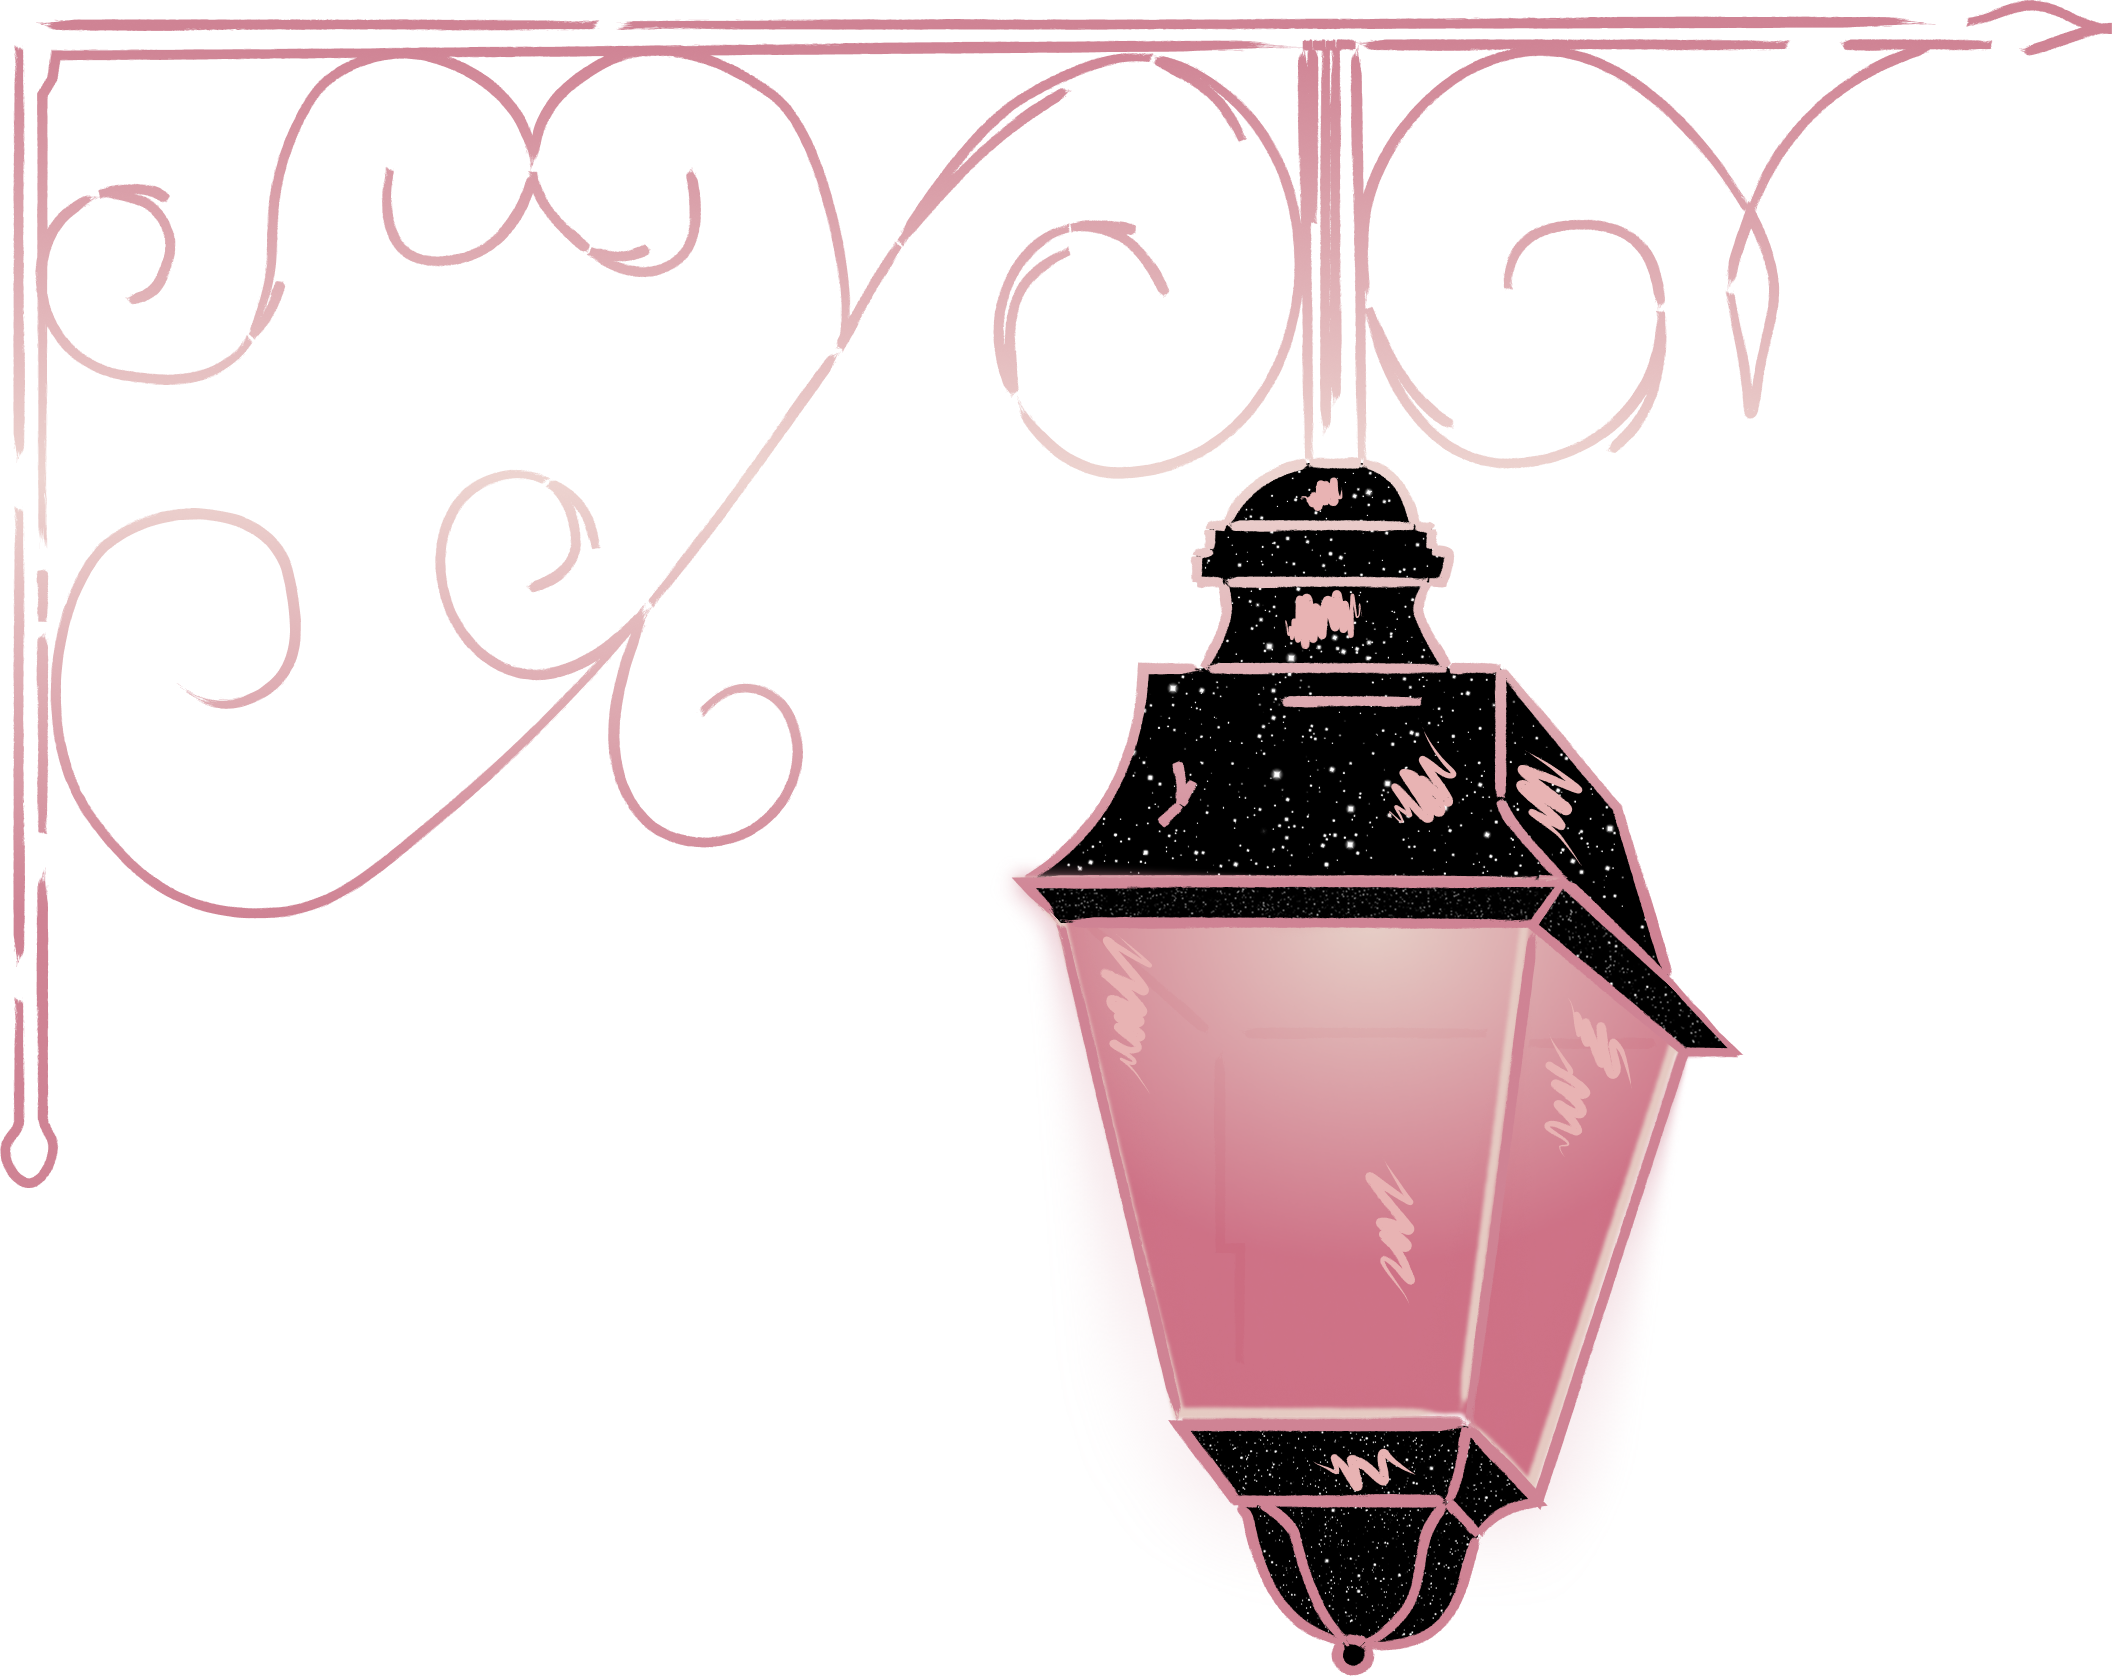
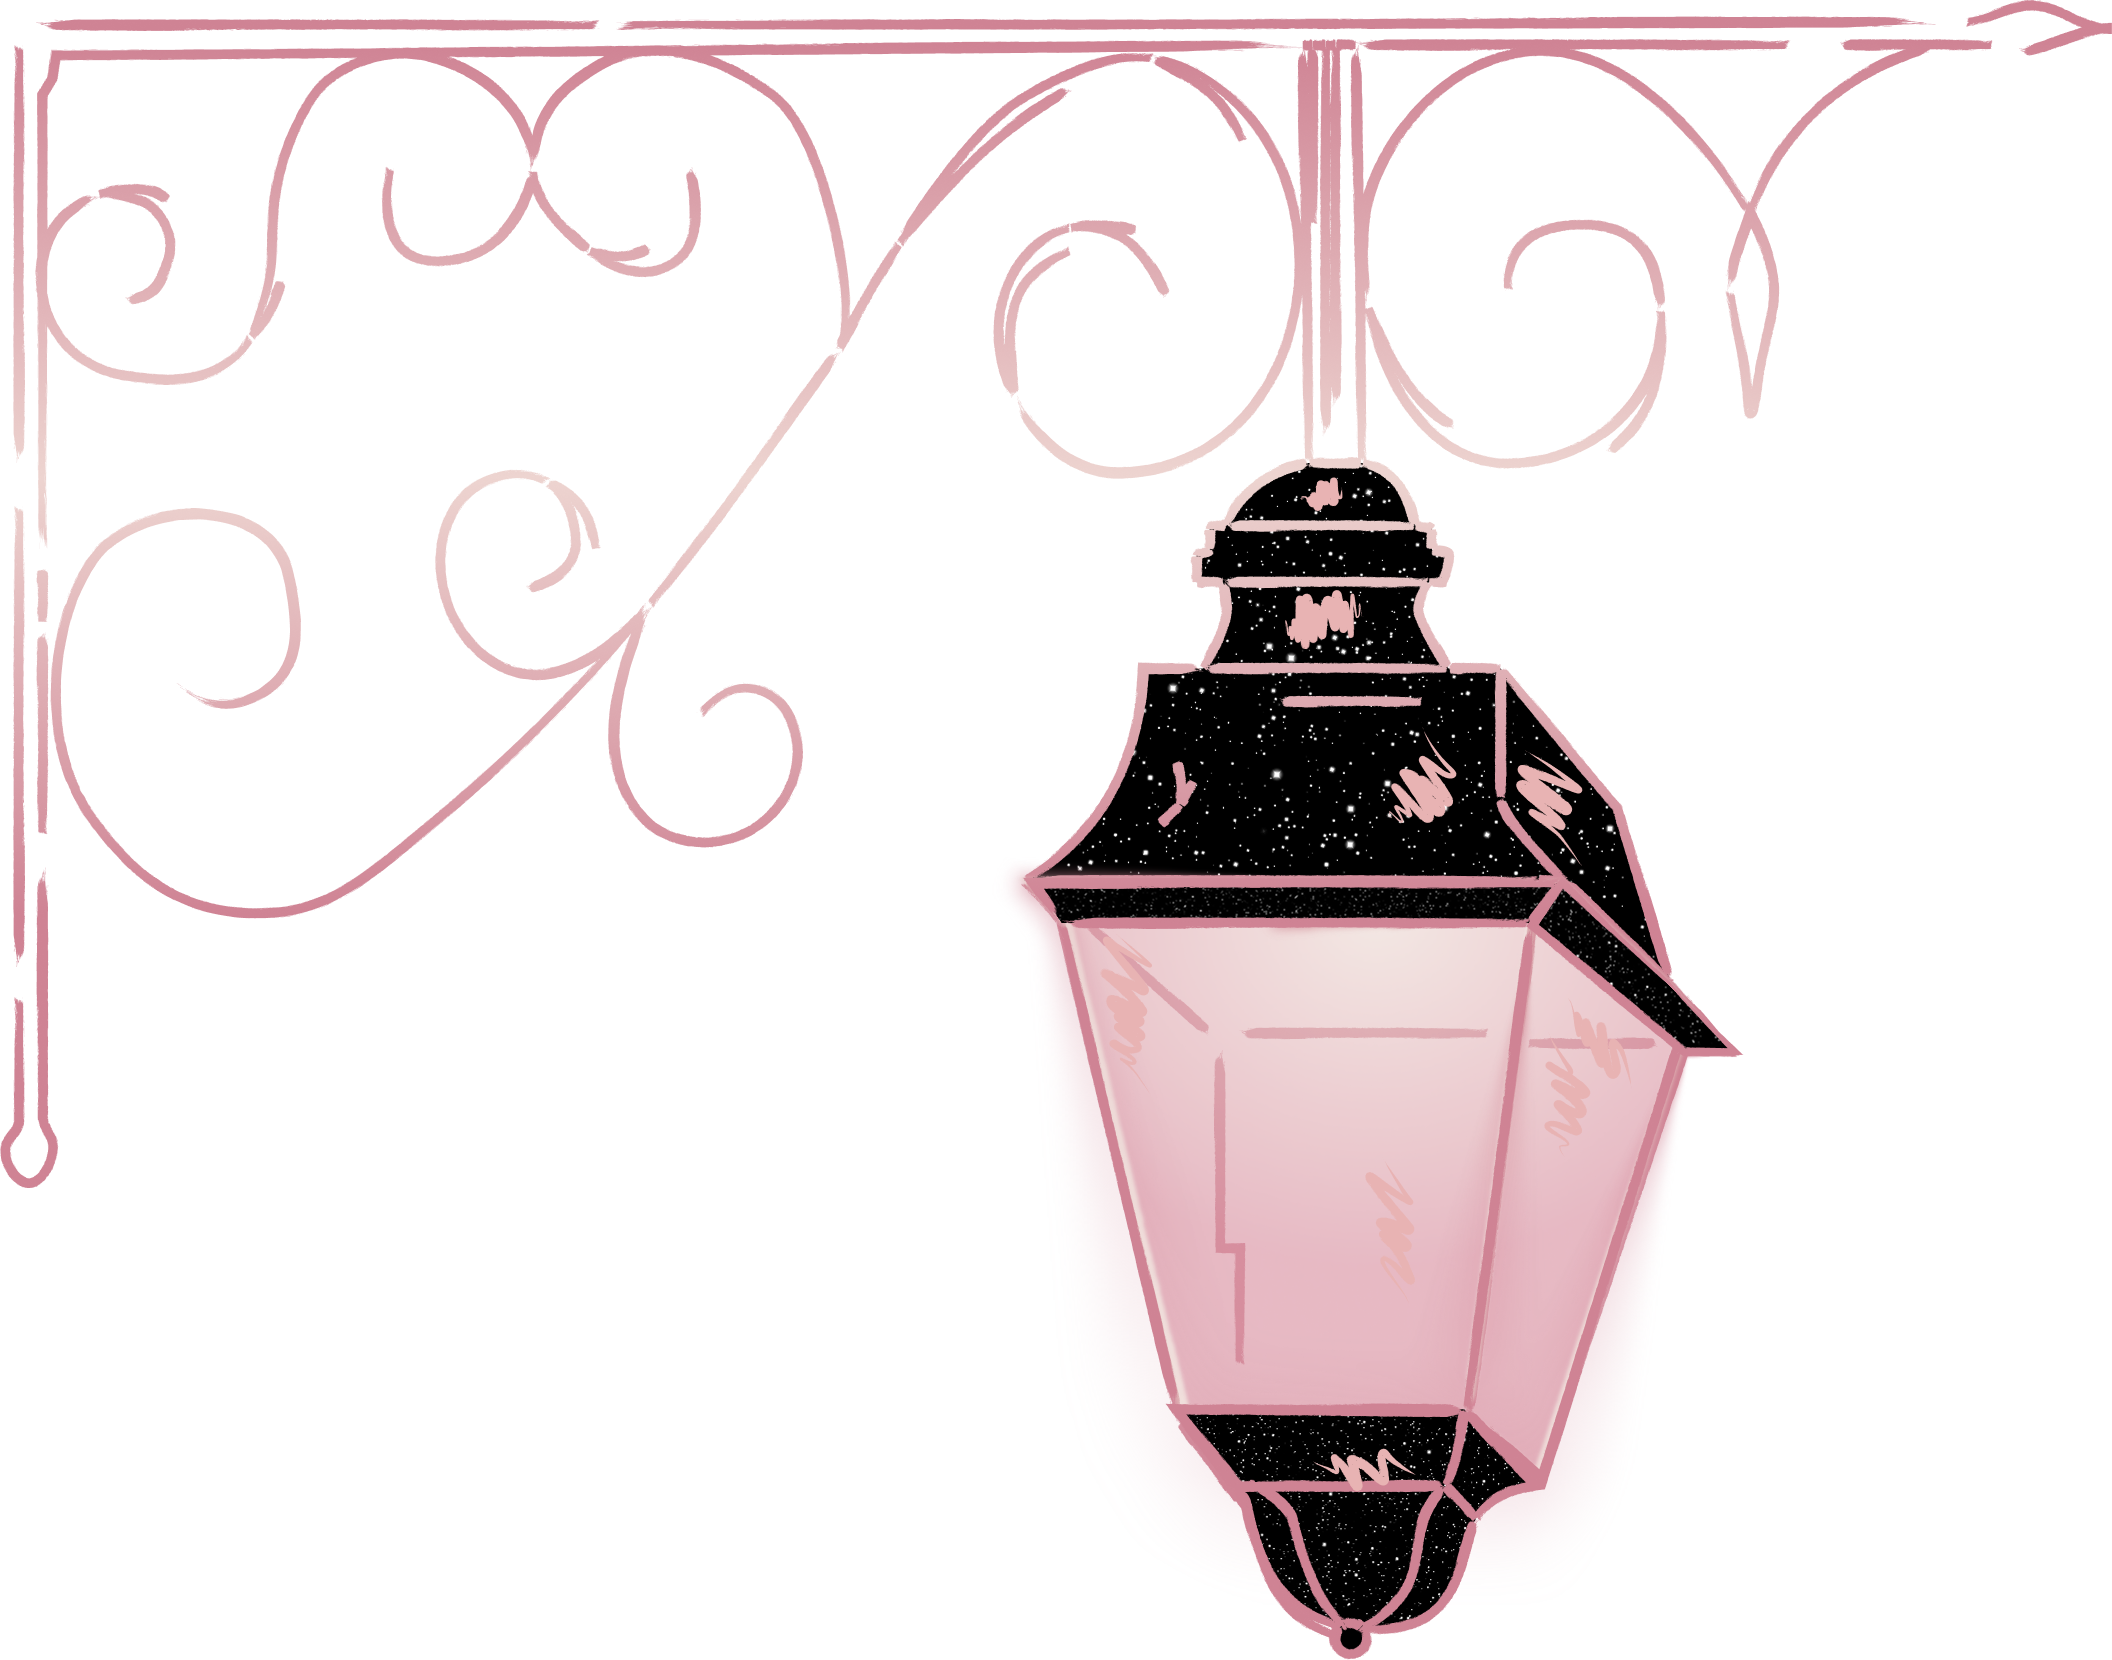
changed streetlamp style

diff --git a/AsAboveSoBelow/stylesheet.css b/AsAboveSoBelow/stylesheet.css
@@ -23,7 +23,6 @@ body {
     position: relative;
     width: 100vw;
     height: auto;
-    margin-top: 40px;
     display: flex;
     justify-content: center;
     align-items: center;
@@ -50,25 +49,68 @@ body {
     margin: 20px 0;
 }
 
-.lamp {
+
+.lamp-wrapper {
+    position: absolute;
     width: 314.335px;
     height: 248.632px;
-    aspect-ratio: 177/140;
-}
-
-#left-lamp {
-    position: absolute;
+    aspect-ratio: 177 / 140;
+  }
+  
+  .lamp {
+    width: 100%;
+    height: 100%;
+    display: block;
+  }
+  
+  #left-lamp {
     top: 0;
     left: 0;
-
-}
-
-#right-lamp {
-    position: absolute;
+  }
+  
+  #right-lamp {
     top: 0;
     right: 0;
-    transform: scaleX(-1);
-}
+    transform: scaleX(-1); 
+  }
+  
+
+  .glow {
+    position: absolute;
+    z-index: -1;
+
+    top: 65%;  
+    left: 65%; 
+  
+
+    width: 80px;
+    height: 100px;
+    transform: translate(-50%, -50%); 
+    border-radius: 50%;
+  
+    background: radial-gradient(
+      circle at center,
+      #CF8394 17.31%,
+      #E5C1C0 51.92%,
+      #CF8394 83.17%,
+      rgba(207, 131, 148, 0) 100%
+    );
+  
+    filter: blur(12px);
+    mix-blend-mode: screen;  
+    pointer-events: none;    
+    animation: flickerGlow 9s ease-in-out infinite;
+  }
+
+  @keyframes flickerGlow {
+    0%, 100% { opacity: 0.9;  transform: translate(-50%, -50%) scale(1); }
+    18%      { opacity: 0.82; transform: translate(-50%, -50%) scale(0.97); }
+    22%      { opacity: 1;    transform: translate(-50%, -50%) scale(1.03); }
+    45%      { opacity: 0.88; transform: translate(-50%, -50%) scale(0.99); }
+    48%      { opacity: 0.96; transform: translate(-50%, -50%) scale(1.01); }
+    72%      { opacity: 0.84; transform: translate(-50%, -50%) scale(0.98); }
+    75%      { opacity: 0.98; transform: translate(-50%, -50%) scale(1.02); }
+  }
 
 .wheel-title {
     text-align: center;
@@ -341,6 +383,14 @@ background-clip: text;
     display: flex;
     justify-content: center;
     flex-direction: column;
+    gap: 40px;
+}
+
+.login-field{
+    display: flex;
+    justify-content: center;
+    flex-direction: column;
+    gap: 20px;
 }
 .form-label{
     font-family: "Jim Nightshade", cursive;

diff --git a/asabovesobelow/pages/login.php b/asabovesobelow/pages/login.php
@@ -9,12 +9,30 @@
     <title>as-above--so-below</title>
   </head>
   <body>
+  <header>
+  <!-- MAYBE MAKE THIS A REUSABLE COMPONENET SO WE CAN GLOBALLY ANCHOR IT ON EVERY PAGE?? -->
+  <div class="header-container">
+
+  <div class="lamp-wrapper" id="left-lamp">
+<img src="../assets/lamp.png" class="lamp"alt="Left Lamp" />
+  <div class="glow"></div>
+</div>
+
+
+<div class="lamp-wrapper" id="right-lamp">
+    <img src="../assets/lamp.png" class="lamp" alt="Right Lamp" />
+    <div class="glow"></div>
+</div>
+    </div>
+</header>
 <div class="border-wrapper">
   <div class="login-container">
     <img src="../assets/trippleMoon.svg" alt="Logo" class="moon-logo">
+
     <div class="login-form">
         <h2 class="login-title">Login</h2>
-        <form action="login.php" method="post">
+
+        <form action="login.php" method="post" class="login-field">
             <div class="mb-3">
                 <label for="username" class="form-label">Username</label>
                 <input type="text" class="form-control" id="username" name="username" required>
@@ -24,8 +42,8 @@
             <label for="password" class="form-label">Sacred Key</label>
             <input type="password" class="form-control" id="password" name="password" required>
         </div>
-
         </form>
+
         <button type="submit" class="btn submit-btn">Login</button>
     </div>
   </div>
